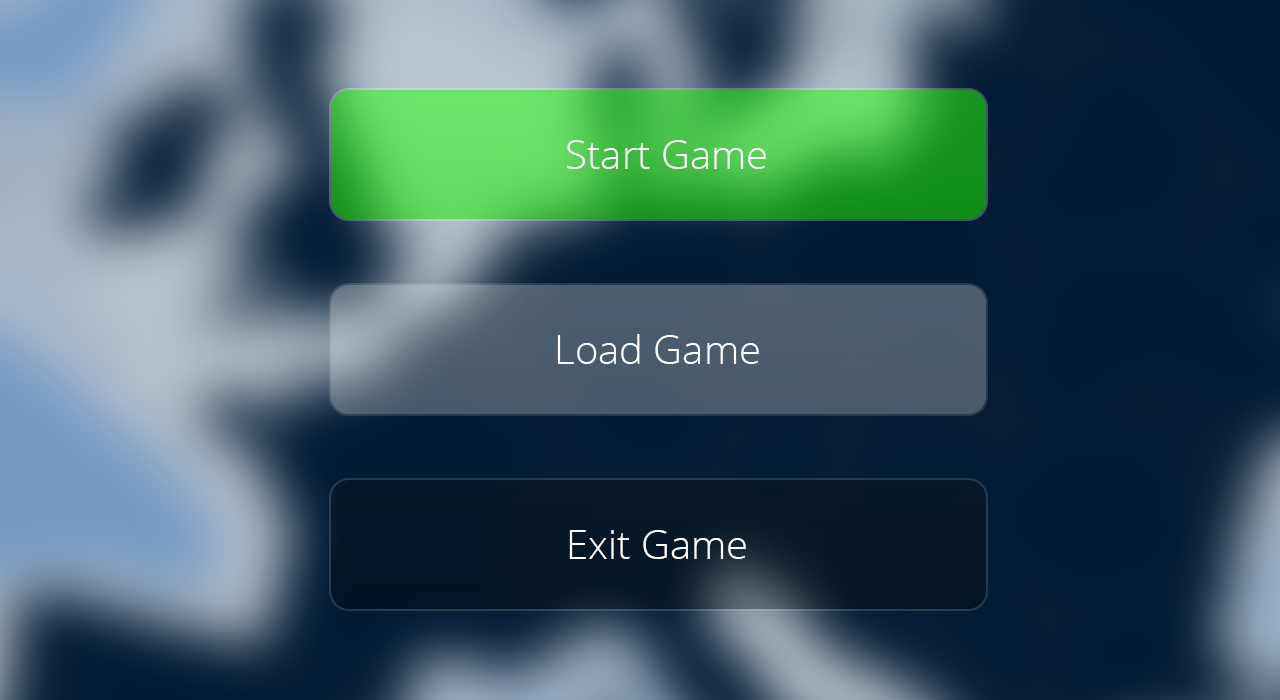
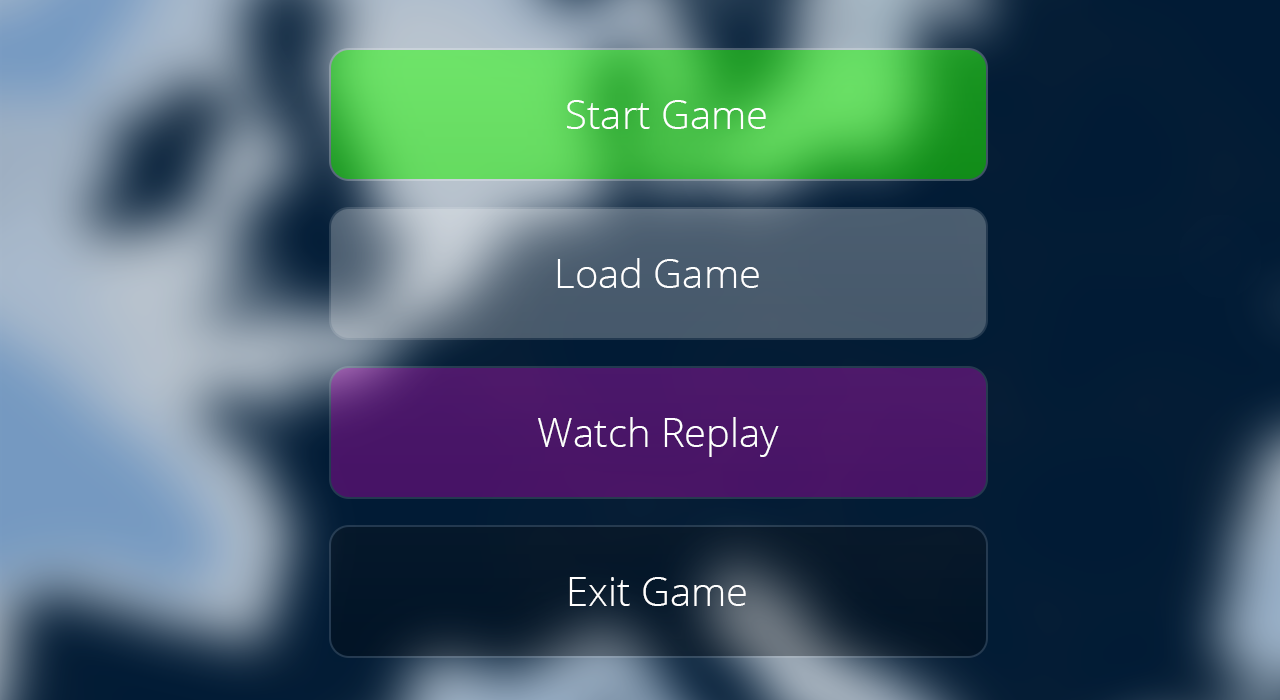
Main Menu Redesign

diff --git a/taxe/core/src/fvs/taxe/MainMenuScreen.java b/taxe/core/src/fvs/taxe/MainMenuScreen.java
@@ -24,6 +24,7 @@ public class MainMenuScreen extends ScreenAdapter {
     private OrthographicCamera camera;
     private Rectangle playBounds;
     private Rectangle loadBounds;
+    private Rectangle recordingBounds;
     private Rectangle exitBounds;
     private Vector3 touchPoint;
     private Texture mapTexture;
@@ -39,9 +40,10 @@ public class MainMenuScreen extends ScreenAdapter {
         camera = new OrthographicCamera(TaxeGame.WIDTH, TaxeGame.HEIGHT);
         camera.setToOrtho(false);
 
-        playBounds = new Rectangle(TaxeGame.WIDTH / 2 - 310, 480, 660, 133);
-        loadBounds = new Rectangle(TaxeGame.WIDTH / 2 - 310, 285, 660, 133);
-        exitBounds = new Rectangle(TaxeGame.WIDTH / 2 - 310, 90, 660, 133);
+        playBounds = new Rectangle(TaxeGame.WIDTH / 2 - 310, 520, 660, 133);
+        loadBounds = new Rectangle(TaxeGame.WIDTH / 2 - 310, 360, 660, 133);
+        recordingBounds = new Rectangle(TaxeGame.WIDTH / 2 - 310, 202, 660, 133);
+        exitBounds = new Rectangle(TaxeGame.WIDTH / 2 - 310, 45, 660, 133);
         touchPoint = new Vector3();
 
         //Loads the gameMap in
@@ -90,10 +92,13 @@ public class MainMenuScreen extends ScreenAdapter {
                 	game.setScreen(new GameScreen(game, loadedGame));
                 }
             }
+            if (recordingBounds.contains(touchPoint.x, touchPoint.y)) {
+            	//If the touch is within the boundaries of the rectangle recordingBounds, load recordings
+            	SaveManager.loadRecordingFromChooser();
+            }
             if (exitBounds.contains(touchPoint.x, touchPoint.y)) {
             	//If the touch is within the boundaries of the rectangle exitBounds the game exits
-            	SaveManager.loadRecordingFromChooser();
-                //Gdx.app.exit();
+                Gdx.app.exit();
             }
        }
   }
